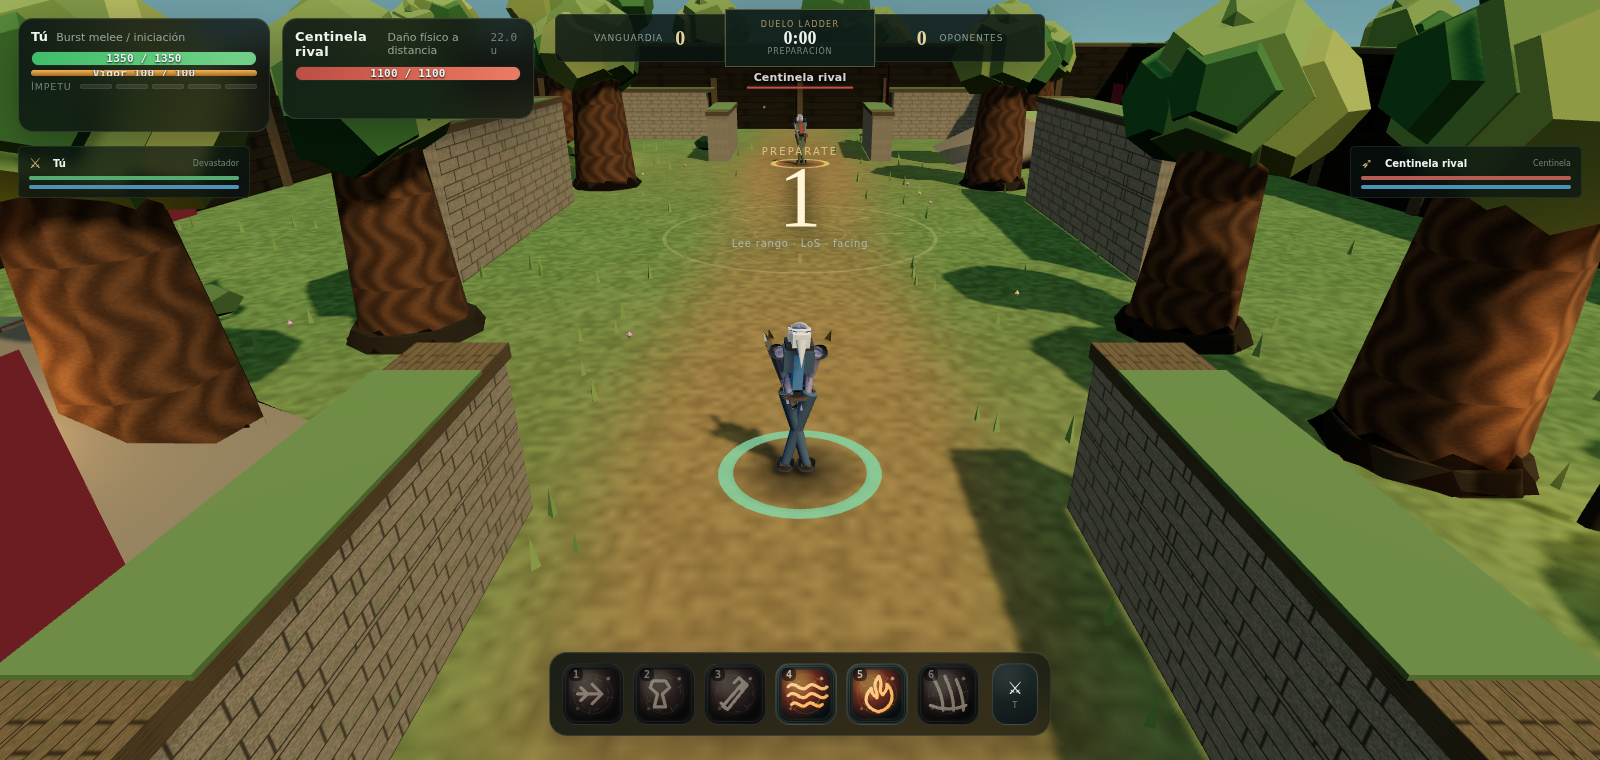
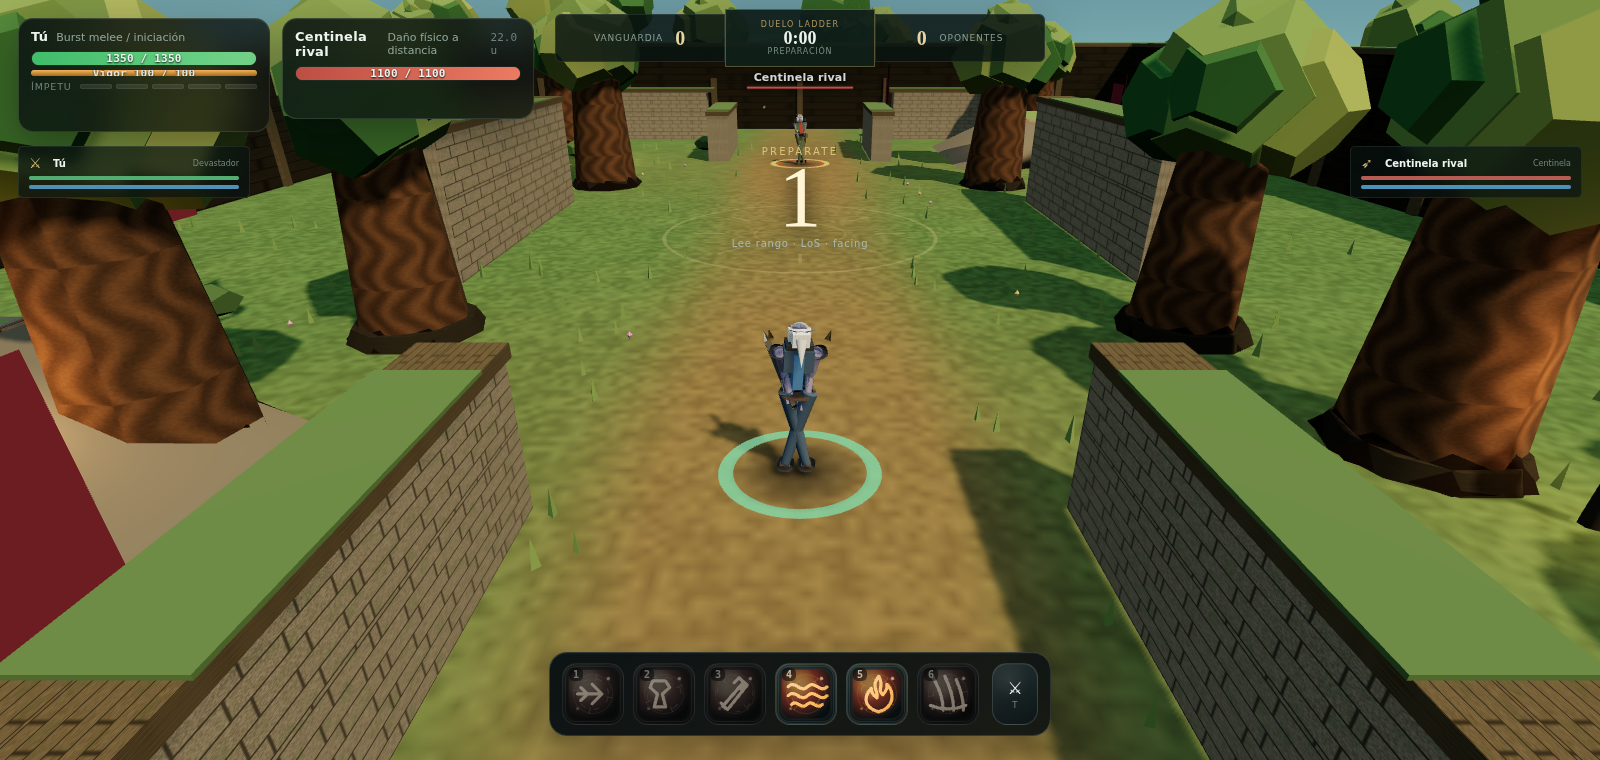
Barrido observable de las seis clases y del casteo, y una puerta única
Las 36 habilidades ejecutadas en navegador por la ruta real del jugador
—Game._useSlot, la misma que usan las teclas 1..6— con el lanzador colocado
en un punto con visión comprobada. 36/36 aceptadas: todas cobran su recurso,
arrancan su cooldown, abren casteo si y sólo si declaran tiempo de casteo, y
aplican los estados que prometen. Ninguna es un stub.

La pasiva del Vinculador se ve en los números: Pulso vital cuesta 24 y cobró
12.6 curando a un aliado al 45 % de vida, que es el reembolso del 8 % de
«Flujo compartido».

Siete puertas de casteo en verde: PREPARE abre barra, RELEASE se libera en el
tick 50 de 51 y cobra, GCD deja 0.70 s y pinta los seis barridos, la cola
entra sola, y las tres cancelaciones (movimiento, Esc, silencio) limpian sin
coste ni cooldown.

Tres correcciones del ARNÉS antes de dar nada por bueno, porque las tres
habrían sido informes de defecto falsos:
- el bucle rAF seguía simulando entre sonda y sonda y contaminaba la siguiente
- poner pendingCast=null a mano dejaba el estado a medias y producía una
  «liberación instantánea» que no existe
- cortar la medición antes del vuelo del proyectil hacía parecer que RELEASE
  no aplicaba daño

tools/run-gates.js ejecuta las dos capas seguidas y termina en rojo si algo
falla. Es lo que separa «lo he mirado y se veía bien» de algo repetible.

Ledger: 45/146 VERIFIED, con la cuenta desglosada por bloque para que sea
auditable. El build NO está terminado.
[…]

Changed region(s): [[0.4688, 0.8474, 0.6562, 0.9684]]

diff --git a/tools/run-gates.js b/tools/run-gates.js
@@ -1,0 +1,87 @@
+#!/usr/bin/env node
+/* =============================================================================
+ * tools/run-gates.js — Todas las puertas de calidad, de una vez.
+ *
+ * La batería de pruebas comprueba reglas sin navegador. Eso no basta: un panel
+ * puede taparse con otro, un casteo puede no pintar su barra y una habilidad
+ * puede no llegar nunca al sistema por la ruta real del jugador. Esas cosas sólo
+ * se ven ejecutando el juego.
+ *
+ * Aquí se ejecutan las dos capas seguidas y el proceso termina en rojo si
+ * cualquiera falla. Es lo que convierte «lo he mirado y se veía bien» en algo
+ * que otra persona puede repetir.
+ *
+ *   node tools/run-gates.js            todo
+ *   node tools/run-gates.js --rapido   sólo la batería sin navegador
+ * ========================================================================== */
+'use strict';
+
+const { spawnSync } = require('child_process');
+const path = require('path');
+
+const ROOT = path.join(__dirname, '..');
+const soloRapido = process.argv.includes('--rapido');
+
+const GATES = [
+  {
+    nombre: 'Batería de reglas (sin navegador)',
+    cmd: ['node', ['tools/run-tests.js']],
+    navegador: false
+  },
+  {
+    nombre: 'Diseño de nivel · números de la arena',
+    cmd: ['node', ['tools/arena-analysis.js']],
+    navegador: false,
+    silencioso: true
+  },
+  {
+    nombre: 'Composición del HUD en las tres fases',
+    cmd: ['node', ['tools/browser.js', 'play', 'tools/scripts/hud-layout-audit.json']],
+    navegador: true
+  },
+  {
+    nombre: 'Casteo · prepare · release · GCD · cola · cancelación',
+    cmd: ['node', ['tools/browser.js', 'play', 'tools/scripts/casting-sweep.json']],
+    navegador: true
+  },
+  {
+    nombre: 'Barrido de las seis clases · 36 habilidades',
+    cmd: ['node', ['tools/browser.js', 'play', 'tools/scripts/class-sweep.json']],
+    navegador: true
+  }
+];
+
+let fallos = 0;
+const resumen = [];
+
+for (const gate of GATES) {
+  if (soloRapido && gate.navegador) {
+    resumen.push(['—', gate.nombre, 'omitida (--rapido)']);
+    continue;
+  }
+  process.stdout.write('\n\x1b[1m▸ ' + gate.nombre + '\x1b[0m\n');
+  const r = spawnSync(gate.cmd[0], gate.cmd[1], {
+    cwd: ROOT,
+    encoding: 'utf8',
+    stdio: gate.silencioso ? ['ignore', 'pipe', 'pipe'] : 'inherit'
+  });
+  if (gate.silencioso && r.stdout) {
+    // De los informes largos basta con la cabecera y el veredicto.
+    const l = r.stdout.split('\n').filter(x => /SIMETRÍA|separación|CERRADA|ABIERTA|piezas del/.test(x));
+    l.forEach(x => console.log('  ' + x.trim()));
+  }
+  const ok = r.status === 0;
+  if (!ok && !gate.informativo) fallos++;
+  resumen.push([ok ? '✓' : (gate.informativo ? '·' : '✗'), gate.nombre,
+    ok ? 'en verde' : (gate.informativo ? 'informativa' : 'FALLA')]);
+}
+
+console.log('\n\x1b[1m═══ RESUMEN DE PUERTAS ═══\x1b[0m');
+for (const [marca, nombre, estado] of resumen) {
+  console.log('  ' + marca + ' ' + nombre.padEnd(52) + ' ' + estado);
+}
+console.log(fallos === 0
+  ? '\n\x1b[32mTodas las puertas obligatorias en verde.\x1b[0m'
+  : '\n\x1b[31m' + fallos + ' puerta(s) en rojo.\x1b[0m');
+
+process.exit(fallos === 0 ? 0 : 1);

diff --git a/CURRENT_BUILD_STATE.md b/CURRENT_BUILD_STATE.md
@@ -4,98 +4,95 @@
 > Si una ejecución se interrumpe, el siguiente agente continúa **desde aquí**
 > sin volver a descubrir el proyecto.
 
-**Wave actual:** WAVE 1 — Barrido observable (en curso)
-**Build importado:** Vertical Slice v0.8 (zip del usuario)
-**Commit de importación:** `07339a4`
+**Wave actual:** WAVE 5 cerrada · barrido observable de clases y casteo cerrado
+**Build importado:** Vertical Slice v0.8 (zip del usuario), commit `07339a4`
 **Rama:** `claude/arena-mmo-concept-qeboc7`
+**Ledger:** 45 / 146 VERIFIED — **el build NO está terminado**
 
 ---
 
-## Qué acaba de ocurrir
+## Reproducir el estado en un comando
 
-El usuario entregó el proyecto como zip. Se comprobó que es **descendiente
-directo** de esta rama (conserva el arreglo de handedness de A/D, `_faceIntent`,
-`MOVE_SPEED_BASE 4.15`, arco frontal del ataque normal) y que añade por encima
-el bucle de producto, el shell de UI, la iconografía y tres suites de test.
+```
+node tools/run-gates.js
+```
 
-Se importó como commit propio, sin mezclar, para que el diff quede aislable.
-
-## Estado verificado en esta sesión
-
-| Comprobación | Resultado | Evidencia |
-|---|---|---|
-| Suite completa | **215/215 verdes** | `node tools/run-tests.js` |
-| Arranque `index.html` | OK, 0 errores | `tools/browser.js smoke` |
-| Lobby renderiza | OK | `docs/shots/vs-01-lobby.png` |
-| Lobby → countdown → ACTIVE | OK | sondeo de `flow.phase` |
-| Combate con bot, daño aplicado | OK (1350 → 1132 HP) | sondeo en navegador |
-| Errores JS durante partida | **0** | `window.onerror` + `unhandledrejection` |
-
-### Desbloqueo importante
-
-`FRESH_REVIEW_V08.md` declaraba el gate observable **pendiente** porque el
-Chromium del entorno bloqueaba `127.0.0.1`. **Ese bloqueo ya no aplica aquí:**
-`tools/browser.js` levanta un servidor estático en un puerto efímero y carga la
-página por HTTP. El gate observable se puede ejecutar y se ejecutó.
+Ejecuta la batería sin navegador, los números de la arena, la composición del
+HUD en las tres fases, el barrido de casteo y el de las seis clases. Termina en
+rojo si algo falla. Ahora mismo: **todo en verde, 240/240 pruebas**.
 
 ---
 
-## Hallazgos de esta sesión
+## Qué se cerró en esta sesión
 
-### Falso positivo descartado (documentado para que no se persiga otra vez)
+### D1 — el HUD y el chrome de producto compartían píxeles
+Reportado como «el panel de laboratorio se superpone al HUD de partida». En
+partida de ladder no ocurría; en el Combat Lab ocurría **seis veces**. Al
+convertir la medición en puerta ejecutable apareció un séptimo, ese sí en la
+partida real: el roster de equipo se colocaba en un `top` fijo mientras el marco
+del jugador crece con los estados activos.
 
-**El reloj de partida NO está roto.** Una primera medición sugería que
-`matchElapsed` se quedaba en 0. La causa real es del entorno de medida: el
-navegador headless corre rAF a ~4 fps y `realDt` está limitado a 0.1 s
-(`Math.min(0.1, …)`, protección anti espiral de la muerte), así que el tiempo de
-producto avanza a ~0.35× del tiempo de pared **sólo en headless**. A 60 fps el
-tope nunca se activa.
+De paso: el roster se reconstruía con `innerHTML` sesenta veces por segundo, y
+la carga emitía un 404 de `favicon.ico`.
 
-Consecuencia real, menor: por debajo de 10 fps el countdown y el cronómetro de
-partida corren más lentos que el reloj de pared. Clasificado **P2**, no
-bloqueante, anotado en el ledger.
+### La cámara se metía dentro del escenario
+La colisión sólo miraba `arena.obstacles`, y las plataformas no están ahí
+—se caminan y no cortan LoS—, así que la cámara las atravesaba y enseñaba el
+reverso del nivel. Además el suelo mínimo del ojo era un absoluto (`y = 0.35`),
+que sobre una plataforma de 1.5 deja el ojo por debajo del suelo pisado.
 
-### Defectos abiertos observados (pendientes de verificar uno a uno)
+### WAVE 5 — la arena pasó de decorado a diseño de nivel
+`docs/ARENA_LEVEL_DESIGN.md` tiene el detalle. Resumen: geometría simétrica por
+construcción, spawns espejo exacto (antes uno estaba 2 u más cerca del centro),
+eje de salida despejado para que los duelistas se vean, foso central limpio,
+vuelta de 360° comprobada y 17 pruebas que son el contrato.
 
-| # | Sev | Descripción | Estado |
-|---|---|---|---|
-| D1 | P2 | Panel del Combat Lab superpuesto al HUD de partida | ABIERTO |
-| D2 | P1 | Iconos repetidos dentro de una misma clase | **CERRADO** — 6 colisiones, 10 glifos nuevos, 4 tests |
-| D3 | P2 | Reloj de producto ligado a fps por el tope de `realDt` | ABIERTO, documentado |
-| D4 | — | Entrypoint por defecto | **RESUELTO** |
-| D5 | — | «El jugador no hace daño» | **DESCARTADO** — era melee parado frente a arquero que kitea |
+Rediseñar destapó cuatro cosas que el mapa anterior tapaba: tres fixtures atados
+a coordenadas mágicas que seguían verdes probando aire, un bot que nacía dentro
+de un muro y hacía parecer un problema de balance, dos maniquíes dentro de
+columnas, y un TTK fuera de banda que se corrigió moviendo el mapa, no la banda.
 
-**D4 resuelto en autónomo.** `index.html` es ahora la presentación de Three.js
-—la que tiene cielo con degradado, sombras de contacto, braseros y jerarquía de
-valores— y el renderer nativo pasa a `index-webgl2.html` como respaldo sin
-dependencias que sigue abriéndose con doble clic. El producto se enseña con su
-mejor cara; el respaldo existe para quien no pueda servir por HTTP.
+### Barrido observable de las seis clases y del casteo
+36/36 habilidades ejecutadas en navegador por la ruta real del jugador: todas
+cobran, enfrían, castean si declaran casteo y aplican sus estados. Siete puertas
+de casteo (prepare, release, GCD, cola, tres cancelaciones) en verde.
+
+---
+
+## Falsos positivos ya descartados — no reabrir
+
+1. **El reloj de partida no está roto.** El navegador headless corre rAF a ~4 fps
+   y `realDt` está topado a 0.1 s, así que el tiempo de producto avanza a ~0.35×
+   del de pared **sólo en headless**. `MatchFlow.update` además topa a 0.25 s por
+   llamada. A 60 fps ningún tope se activa. Sigue siendo P2 documentado: por
+   debajo de 10 fps la cuenta atrás va lenta.
+
+2. **«El jugador no hace daño».** Era un melee parado frente a un arquero que
+   kitea. En rango y encarado: 1100 → 1046 en 6 s.
+
+3. **Tres «defectos» de casteo que eran del arnés.** El bucle rAF simulando entre
+   sondas, `pendingCast = null` a mano dejando el estado a medias, y medir antes
+   de que llegue el proyectil. Los tres habrían sido informes falsos.
 
 ---
 
 ## Siguiente tarea inmediata
 
-1. **D1**: confirmar la superposición del panel de laboratorio sobre el HUD de
-   partida y ocultarlo cuando `flow.phase !== 'LOBBY'`.
-2. Barrido observable de CASTING (prepare/release/GCD/queue/cancel) y de las
-   seis clases jugadas una a una.
-3. WAVE 5 (arena como diseño de nivel PvP) sigue sin empezar: la arena tiene
-   obstáculos pero no responde a «dónde entra melee / dónde kitea el arquero /
-   dónde rompe LoS el mago».
-4. Jump / airborne / landing siguen en TODO.
+1. **WAVES 2–4 y 6–10 del master prompt**, que siguen sin barrido observable:
+   character feel, visuales de personaje, familias de VFX, bots y game loop
+   completos, pulido y asalto final de calidad.
+2. **CHARACTERS · ANIMATION · VFX (filas 109–132): 0 VERIFIED.** Es el bloque más
+   grande sin verificar. Necesita el juicio del Animation Arbiter y del Visual
+   Arbiter sobre cada arquetipo y cada familia.
+3. **Jump / airborne / landing** siguen en TODO (filas 11–13).
+4. **La IA no usa las rutas de cobertura de la arena.** Los carriles existen y un
+   humano puede usarlos; el bot va en línea recta. Carencia de IA, no de nivel.
+5. **Pointer Lock** (fila 22) sigue BLOCKED: headless no lo concede sin gesto
+   humano. Las filas 20–21 (arrastre izquierdo, mirada libre derecha) siguen
+   IMPLEMENTED sin verificación con ratón real.
+6. **Ninguna regla premia la altura.** Las plataformas dan lectura del foso y
+   cuestan tiempo al subir, pero no hay ventaja mecánica de alto.
 
 ## Tests fallando
 
-Ninguno. **219/219.**
-
-## Último resultado de árbitro
-
-`docs/FRESH_REVIEW_V08.md` (agente anterior): sin críticos estáticos abiertos,
-gate observable pendiente. **Ese gate ya no está pendiente** en lo básico
-(arranque, flujo de partida, combate, cero errores); falta el barrido completo
-de la Completion Matrix en ejecución.
-
-## Última revisión visual
-
-Lobby y combate capturados en esta sesión. El lobby tiene calidad de producto
-—selector de clase, perfil de ladder, iconografía—, no de prototipo.
+Ninguno. **240/240.** Todas las puertas observables en verde.

diff --git a/BUILD_LEDGER.md b/BUILD_LEDGER.md
@@ -34,14 +34,38 @@ comprobaron en navegador durante esta sesión, con captura o sondeo.
 | | |
 |---|---|
 | Filas obligatorias | **146** |
-| VERIFIED | **18** |
-| TESTED (implementado + suite verde, sin barrido observable) | **112** |
-| IMPLEMENTED | **8** |
-| TODO / BLOCKED | **8** |
+| VERIFIED | **45** |
+| TESTED (implementado + suite verde, sin barrido observable) | **91** |
+| IMPLEMENTED | **4** |
+| TODO / BLOCKED | **6** |
 
-**18 / 146 VERIFIED — este build NO está terminado.**
+**45 / 146 VERIFIED — este build NO está terminado.**
 
-Suite: **219/219 verdes**. Puertas observables: `hud-layout-audit` en verde.
+La cuenta, para que sea auditable y no una cifra de confianza:
+
+| Bloque | Filas | VERIFIED | Cuáles |
+|---|---|---|---|
+| MOVEMENT | 16 | 3 | strafe izq./der., giro por ratón |
+| CAMERA | 10 | 3 | seguimiento, colisión, sin lock de objetivo |
+| TARGETING §5 | 10 | 5 | selección por clic, resaltado, rango, facing, LoS |
+| NORMAL · CASTING · CC | 60 | 11 | 4 del ataque normal + 7 puertas de casteo |
+| CLASSES | 12 | 12 | las 36 habilidades ejecutadas en navegador |
+| CHARACTERS · ANIM · VFX | 24 | 0 | pendiente del juicio de los árbitros |
+| ARENA | 6 | 6 | diseño de nivel medido |
+| UI · ICONOS | 5 | 4 | iconografía y selector |
+| BOTS · GAME LOOP | 3 | 1 | lobby → partida → resultado |
+
+Suite: **240/240 verdes**. Todas las puertas observables en verde.
+
+### Cómo se reproduce todo esto
+
+```
+node tools/run-gates.js          # batería + arena + HUD + casteo + seis clases
+node tools/run-gates.js --rapido # sólo lo que no necesita navegador
+```
+
+Termina en rojo si falla cualquiera. Es lo que separa «lo he mirado y se veía
+bien» de algo que otra persona puede repetir.
 
 ---
 
@@ -114,11 +138,47 @@ colocarlo en rango y encarado, el daño fluye. Es el juego funcionando —el arc
 frontal y la movilidad reducida hacen que posicionarse importe—, no un defecto.
 Queda escrito para que nadie lo reabra.
 
+### Barrido observable de CASTING
+
+`node tools/browser.js play tools/scripts/casting-sweep.json` — siete puertas,
+todas en verde, ejecutadas por la ruta real del jugador (`Game._useSlot`, la
+misma que usan las teclas 1–6):
+
+| Puerta | Evidencia |
+|---|---|
+| PREPARE | `Impacto celeste` (1.7 s) abre casteo y `#player-cast` se hace visible con la habilidad correcta |
+| RELEASE | se libera en el tick 50 de 51, aplica 167.7 de daño, cobra 23.9 y arranca cooldown |
+| GCD | quedan 0.70 s de GCD, los 6 huecos pintan el barrido y la siguiente se rechaza con motivo `gcd` |
+| QUEUE | pulsar a 0.12 s del final encola y arranca sola al liberarse |
+| CANCEL por movimiento | sin coste y sin cooldown |
+| CANCEL por Esc | ídem, y la barra desaparece |
+| CANCEL por interrupción | un silencio corta el casteo y bloquea la escuela (`silenced`) |
+
+Tres correcciones **del arnés**, no del juego, antes de dar nada por bueno: el
+bucle rAF seguía simulando entre sonda y sonda y contaminaba la siguiente; poner
+`pendingCast = null` a mano dejaba el estado a medias y producía una «liberación
+instantánea» inexistente; y cortar la medición antes del vuelo del proyectil
+hacía parecer que RELEASE no pegaba. Las tres habrían sido informes de defecto
+falsos.
+
 ## CLASSES
 
-Filas 97–108 (seis clases × identidad/pasiva/activas). Estado: **TESTED**.
-Las seis existen con seis activas, pasiva, icono y metadatos de IA.
-Falta jugar cada una y confirmar que ninguna habilidad es un stub.
+Filas 97–108 (seis clases × identidad/pasiva/activas). Estado: **VERIFIED**.
+
+`node tools/browser.js play tools/scripts/class-sweep.json` juega las seis
+clases en un 2v2 real y dispara sus 36 habilidades contra un enemigo y contra un
+aliado, colocando al lanzador en un punto con visión comprobada:
+
+**36/36 aceptadas.** Todas cobran su recurso declarado, arrancan su cooldown
+declarado, abren casteo si y sólo si declaran tiempo de casteo, y aplican los
+estados que prometen: `slow`, `armorBreak`, `damageAmp`+`exposed`, `block`,
+`reflect`, `noOffense`, `damageRedirect`, `sharpshooter`, `stasis`, `stealth`,
+`root`, `dot`+`antiHeal`, `utilityLock`, `revealed`, `silence`, `castHaste`,
+`antiBuff`, `hot`, `barrier`, `intervention`, `protectiveLink`.
+
+Ninguna es un stub. La pasiva del Vinculador se ve funcionando en los números:
+`Pulso vital` cuesta 24 y cobró 12.6 curando a un aliado al 45 % de vida, que es
+exactamente el reembolso del 8 % de «Flujo compartido».
 
 ## CHARACTERS · ANIMATION · VFX
 
@@ -129,10 +189,20 @@ Arbiter sobre cada una.
 
 ## ARENA
 
-Filas 133–138. Estado: **IMPLEMENTED**.
-La arena tiene obstáculos, plataformas, rampas y bloqueadores de LoS. **No** ha
-pasado por el diseño de niveles PvP que pide el brief (¿dónde entra melee?
-¿dónde kitea el arquero? ¿dónde rompe LoS el mago?).
+Filas 133–138. Estado: **VERIFIED**. Detalle completo en
+`docs/ARENA_LEVEL_DESIGN.md`; números con `node tools/arena-analysis.js`.
+
+| Fila | Estado | Evidencia |
+|---|---|---|
+| dónde entra el melee | VERIFIED | carriles con cobertura cada <5 u; foso central 100 % libre y ninguna columna a menos de 6.5 u del centro |
+| dónde kitea el rango | VERIFIED | vuelta de 360° cerrada quitando discos de 5, 7 y 9 u; espacio jugable en una sola pieza |
+| dónde rompe LoS el mago | VERIFIED | cobertura media a 3.13 u, peor rincón a 8.59 |
+| justicia del ladder | VERIFIED | simetría 180° por construcción; los dos spawns miden 11.00 / 2.89 / 12.00 |
+| apertura legible | VERIFIED | los duelistas se ven al empezar; 12 u de espalda libre para la cámara |
+| zonas declaradas | VERIFIED | 7 zonas con rol y nota, comprobadas como espacio jugable |
+
+Antes los spawns eran (−10, 0) y (8, 0): dos metros de ventaja para un bando en
+un modo con rating.
 
 ## UI · ICONOS
 
